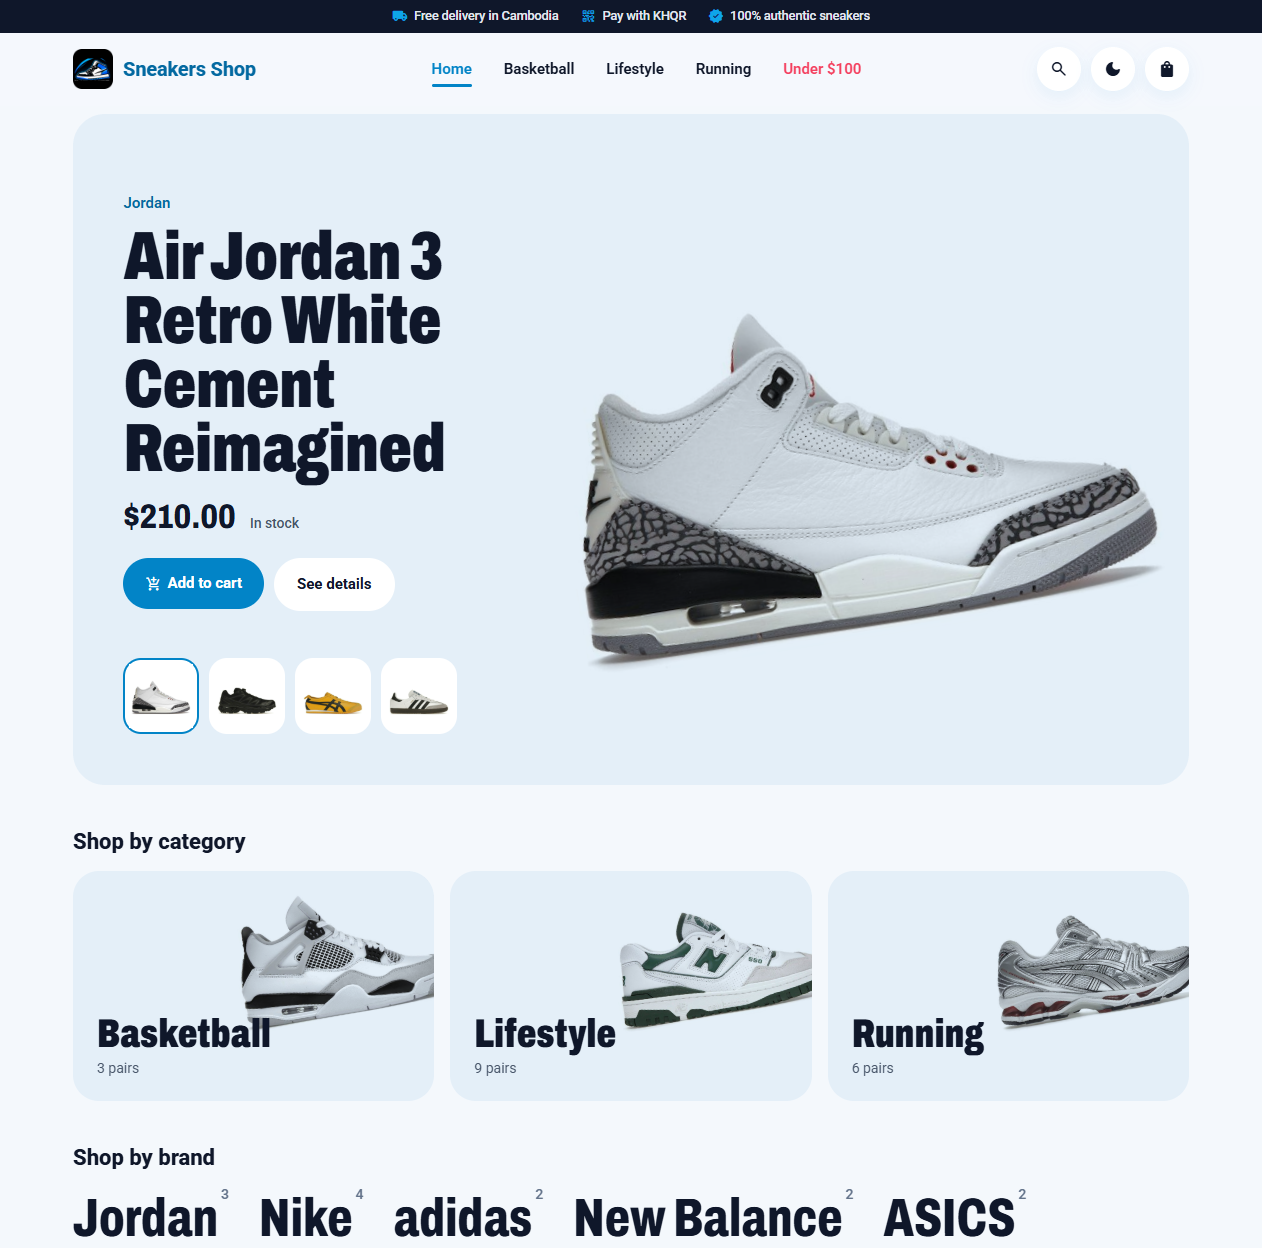
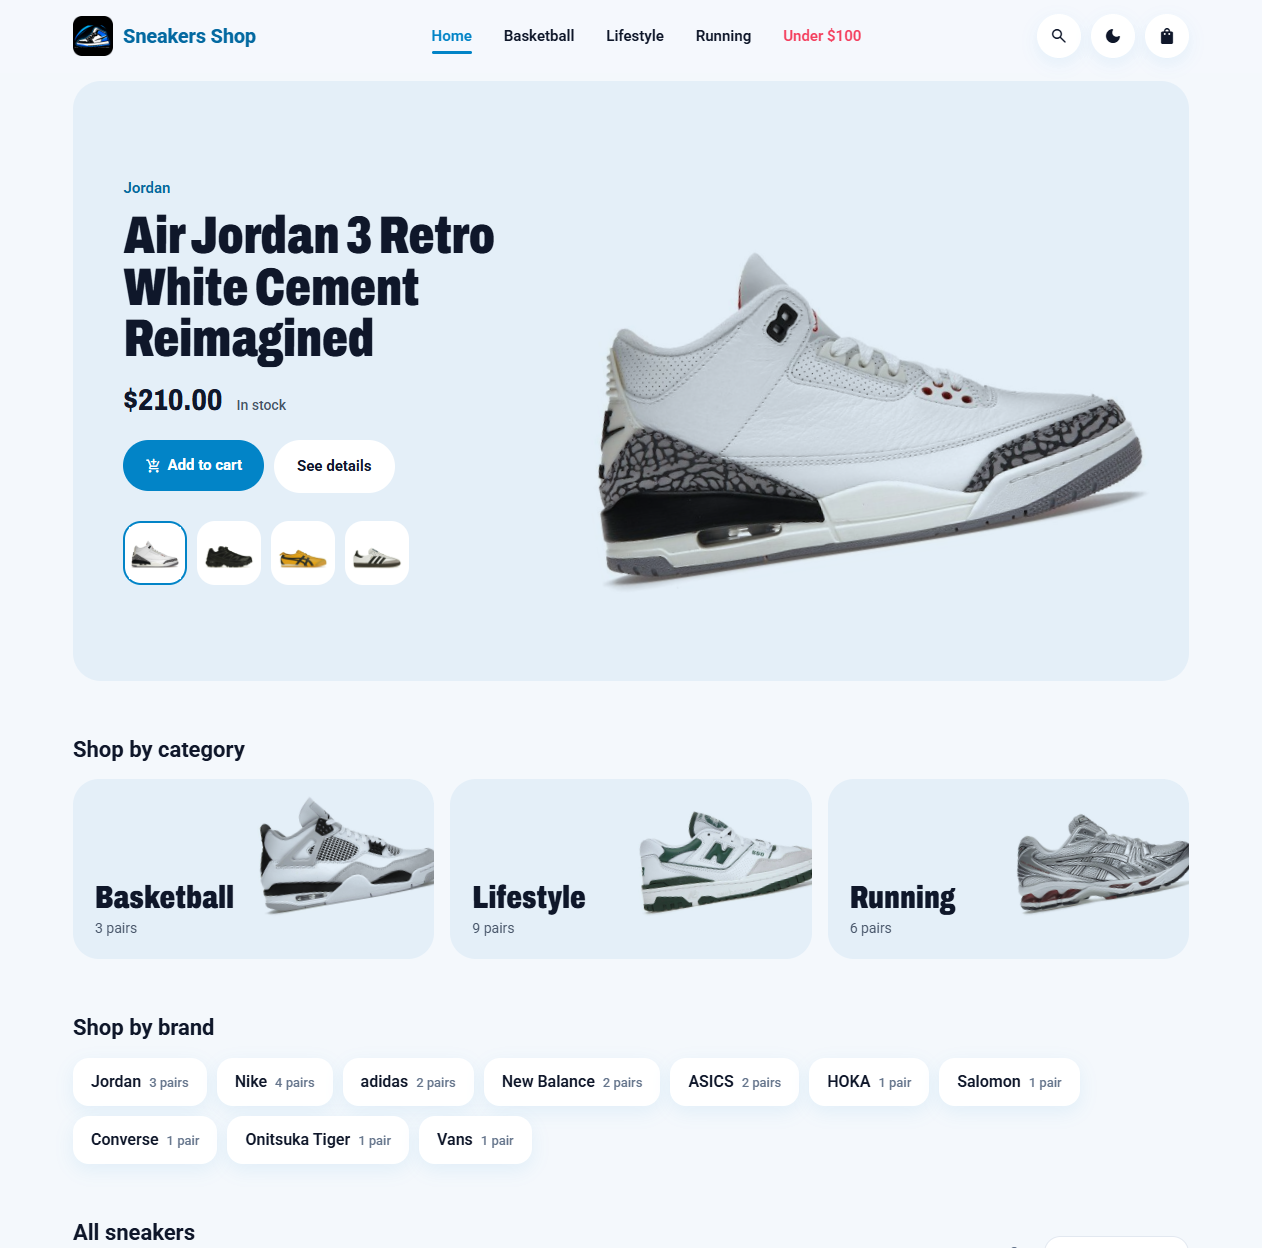
Clean up the home page and remove the black header bar
- Remove the dark announcement strip above the header.
- Simpler product card: photo, name, short description, price, and
  View details / Add to cart buttons (as the brief requires); low
  stock or sold out shown as small text next to the price.
- Calmer home: smaller hero name and shoe, tighter hero spacing,
  shorter category tiles, brands as a row of simple chips (one
  scrolling row on phones), even 56px spacing between sections.
- README: replace arrow symbols with words; screenshots retaken.

diff --git a/shop/static/css/style.css b/shop/static/css/style.css
@@ -148,13 +148,6 @@ html.dark .switch { background: var(--line); }
 .switch.on::after { left: 24px; }
 
 /* =========================================================== STORE */
-/* announcement strip above the header */
-.announce { background: var(--ink); color: #e2e8f0; font-size: 12.5px; font-weight: 500; }
-html.dark .announce { background: #05070a; color: #cbd5e1; }
-.announce-inner { display: flex; justify-content: center; align-items: center; gap: 22px; margin: 0; padding: 7px 0; flex-wrap: wrap; row-gap: 2px; }
-.announce-inner span { display: inline-flex; align-items: center; gap: 6px; white-space: nowrap; }
-.announce-inner .ms { color: var(--brand-light); }
-
 /* header: logo · menu · actions in one row */
 .topbar { position: sticky; top: 0; z-index: 1030; background: color-mix(in srgb, var(--page) 88%, transparent); backdrop-filter: blur(14px);
   border-bottom: 1px solid transparent; transition: box-shadow .25s ease, border-color .25s ease; }
@@ -229,25 +222,25 @@ html.dark .menu-list a.active { color: var(--brand); }
    with multiply so the white disappears and the shoe sits on the shelf. The shelf
    stays light in dark mode too, like a lit display case. */
 :root { --display: "Archivo", "Roboto", system-ui, sans-serif; --shelf: #e4eff8; --shelf-ink: #0f172a; --shelf-muted: #475569; }
-.stage { display: grid; grid-template-columns: minmax(0, 5fr) minmax(0, 7fr); grid-template-rows: 1fr auto; column-gap: clamp(16px, 3vw, 40px);
-  background: var(--shelf); color: var(--shelf-ink); border-radius: 32px; padding: clamp(24px, 4vw, 52px); margin-top: 8px; overflow: hidden; }
-.stage-copy { grid-column: 1; grid-row: 1; align-self: center; padding-top: 8px; }
+.stage { display: grid; grid-template-columns: minmax(0, 5fr) minmax(0, 7fr); grid-template-rows: auto auto; align-content: center; column-gap: clamp(16px, 3vw, 40px);
+  background: var(--shelf); color: var(--shelf-ink); border-radius: 28px; padding: clamp(24px, 3.5vw, 44px) clamp(24px, 4vw, 52px); margin-top: 8px; overflow: hidden; }
+.stage-copy { grid-column: 1; grid-row: 1; align-self: end; }
 .stage-brand { font-size: 15px; font-weight: 600; color: #0369a1; margin: 0 0 10px; }
-.stage-name { font-family: var(--display); font-stretch: 72%; font-weight: 900; font-size: clamp(36px, 5.4vw, 74px); line-height: .94;
+.stage-name { font-family: var(--display); font-stretch: 72%; font-weight: 900; font-size: clamp(32px, 4.2vw, 56px); line-height: .98;
   letter-spacing: -.005em; margin: 0 0 20px; text-wrap: balance; color: var(--shelf-ink); }
 .stage-meta { display: flex; align-items: baseline; gap: 14px; flex-wrap: wrap; margin: 0 0 24px; }
-.stage-price { font-family: var(--display); font-stretch: 80%; font-weight: 800; font-size: 34px; line-height: 1; }
+.stage-price { font-family: var(--display); font-stretch: 80%; font-weight: 800; font-size: 30px; line-height: 1; }
 .stage-stock { font-size: 14px; font-weight: 500; color: var(--shelf-muted); }
 .stage-actions { display: flex; gap: 10px; flex-wrap: wrap; }
 .stage .btn-line { --bs-btn-color: var(--shelf-ink); --bs-btn-bg: #fff; --bs-btn-border-color: transparent; --bs-btn-hover-color: var(--shelf-ink);
   --bs-btn-hover-bg: #f8fafc; --bs-btn-hover-border-color: transparent; }
-.stage-shoe { grid-column: 2; grid-row: 1 / span 2; display: grid; place-items: center; min-width: 0; }
-.stage-shoe img { width: 100%; max-width: 680px; height: auto; mix-blend-mode: multiply; transform: rotate(-9deg) scale(1.12); }
+.stage-shoe { grid-column: 2; grid-row: 1 / span 2; display: grid; place-items: center; min-width: 0; margin: -24px 0; }
+.stage-shoe img { width: 100%; max-width: 560px; height: auto; mix-blend-mode: multiply; transform: rotate(-9deg) scale(1.08); }
 .stage-shoe img.is-in { animation: shoe-in .5s cubic-bezier(.22, 1, .36, 1) both; }
-@keyframes shoe-in { from { opacity: 0; transform: translateX(40px) rotate(-3deg) scale(1.08); } to { opacity: 1; transform: rotate(-9deg) scale(1.12); } }
+@keyframes shoe-in { from { opacity: 0; transform: translateX(40px) rotate(-3deg) scale(1.08); } to { opacity: 1; transform: rotate(-9deg) scale(1.08); } }
 .stage-copy.is-in > * { animation: fade-in .35s ease both; }
-.stage-picks { grid-column: 1; grid-row: 2; display: flex; gap: 10px; margin-top: 28px; }
-.pick { width: 76px; height: 76px; padding: 4px; border-radius: 18px; border: 2px solid transparent; background: #fff; flex: none;
+.stage-picks { grid-column: 1; grid-row: 2; align-self: start; display: flex; gap: 10px; margin-top: 28px; }
+.pick { width: 64px; height: 64px; padding: 4px; border-radius: 18px; border: 2px solid transparent; background: #fff; flex: none;
   transition: border-color .2s ease, transform .2s ease; }
 .pick img { width: 100%; height: 100%; object-fit: contain; }
 .pick:hover { transform: translateY(-2px); }
@@ -263,17 +256,17 @@ html.dark .menu-list a.active { color: var(--brand); }
 }
 
 /* ---------- home: categories and brands ---------- */
-.home-block { margin-top: 44px; }
-.home-h { font-size: 22px; font-weight: 800; margin: 0 0 16px; }
+.home-block { margin-top: 56px; }
+.home-h { font-size: 22px; font-weight: 700; margin: 0 0 16px; }
 .cat-tiles { display: grid; grid-template-columns: repeat(3, minmax(0, 1fr)); gap: 16px; }
-.cat-tile { position: relative; display: flex; flex-direction: column; justify-content: flex-end; min-height: 230px; padding: 22px 24px;
+.cat-tile { position: relative; display: flex; flex-direction: column; justify-content: flex-end; min-height: 180px; padding: 20px 22px;
   border-radius: 26px; background: var(--shelf); color: var(--shelf-ink); text-decoration: none; overflow: hidden; isolation: isolate; }
-.cat-tile img { position: absolute; right: -6%; top: -16%; width: 64%; height: auto; mix-blend-mode: multiply; transform: rotate(-10deg); z-index: -1;
+.cat-tile img { position: absolute; right: -4%; top: -20%; width: 56%; height: auto; mix-blend-mode: multiply; transform: rotate(-10deg); z-index: -1;
   transition: transform .4s cubic-bezier(.22, 1, .36, 1); }
 .cat-tile:hover { color: var(--shelf-ink); }
 .cat-tile:hover img { transform: rotate(-14deg) translate(-6px, -6px); }
 .cat-tile:focus-visible { outline: 3px solid var(--brand); outline-offset: 3px; }
-.cat-name { font-family: var(--display); font-stretch: 72%; font-weight: 900; font-size: 40px; line-height: 1; }
+.cat-name { font-family: var(--display); font-stretch: 72%; font-weight: 900; font-size: 32px; line-height: 1; }
 .cat-count { font-size: 14px; color: var(--shelf-muted); margin-top: 4px; }
 @media (max-width: 767.98px) {
   .cat-tiles { grid-template-columns: 1fr; gap: 10px; }
@@ -282,17 +275,22 @@ html.dark .menu-list a.active { color: var(--brand); }
   .cat-name { font-size: 34px; }
 }
 
-.brand-list { list-style: none; display: flex; flex-wrap: wrap; gap: 2px 30px; margin: 0; padding: 0; }
-.brand-list a { font-family: var(--display); font-stretch: 72%; font-weight: 800; font-size: clamp(30px, 4.6vw, 54px); line-height: 1.12;
-  color: var(--ink); text-decoration: none; transition: color .2s ease; }
+.brand-list { list-style: none; display: flex; flex-wrap: wrap; gap: 10px; margin: 0; padding: 0; }
+.brand-list a { display: inline-flex; align-items: baseline; gap: 8px; padding: 12px 18px; border-radius: 16px; background: var(--card);
+  box-shadow: var(--shadow); color: var(--ink); font-size: 16px; font-weight: 600; text-decoration: none; transition: color .2s ease; }
 .brand-list a:hover { color: var(--brand); }
-.brand-list a:focus-visible { outline: 2px solid var(--brand); outline-offset: 2px; border-radius: 6px; }
-.brand-list sup { font-family: "Roboto", system-ui, sans-serif; font-size: 14px; font-weight: 600; color: var(--muted); margin-left: 3px; vertical-align: top; position: relative; top: .5em; }
+.brand-list a:focus-visible { outline: 2px solid var(--brand); outline-offset: 2px; }
+.brand-list .n { font-size: 13px; font-weight: 500; color: var(--muted); }
+@media (max-width: 767.98px) {
+  .brand-list { flex-wrap: nowrap; overflow-x: auto; scrollbar-width: none; margin: 0 -12px; padding: 4px 12px 14px; }
+  .brand-list::-webkit-scrollbar { display: none; }
+  .brand-list li { flex: none; }
+}
 
 /* ---------- catalogue: heading, sort, filter chips ---------- */
-.catalog { margin-top: 48px; scroll-margin-top: 90px; }
+.catalog { margin-top: 56px; scroll-margin-top: 90px; }
 .catalog-head { display: flex; align-items: flex-end; justify-content: space-between; gap: 12px; flex-wrap: wrap; margin-bottom: 14px; }
-.catalog-head h2 { font-size: 28px; font-weight: 800; margin: 0; }
+.catalog-head h2 { font-size: 22px; font-weight: 700; margin: 0; }
 .catalog-count { margin: 2px 0 0; color: var(--muted); font-size: 14px; }
 .catalog-count a { color: var(--brand); font-weight: 600; text-decoration: none; }
 .sort-form { display: flex; align-items: center; gap: 8px; }
@@ -309,35 +307,32 @@ html.dark .menu-list a.active { color: var(--brand); }
 .fchip.on .n { color: inherit; opacity: .65; }
 .fchip:focus-visible { outline: 2px solid var(--brand); outline-offset: 2px; }
 
-/* product card (MA: Product Card) */
-.pcard { background: var(--card); border-radius: var(--radius-lg); box-shadow: var(--shadow); padding: 8px 8px 12px; height: 100%;
-  display: flex; flex-direction: column; position: relative; transition: transform .25s cubic-bezier(.22, 1, .36, 1), box-shadow .25s ease; }
-.pcard:hover { transform: translateY(-3px); box-shadow: var(--shadow-lift); }
-.pcard-photo { display: block; aspect-ratio: 1; border-radius: 16px; overflow: hidden; position: relative; background: var(--brand-tint); }
-.pcard-photo img { width: 100%; height: 100%; object-fit: cover; transition: transform .5s cubic-bezier(.22, 1, .36, 1); }
-.pcard:hover .pcard-photo img { transform: scale(1.05); }
-.ptag { position: absolute; padding: 3px 8px; border-radius: 10px; font-size: 10.5px; font-weight: 600; max-width: calc(100% - 16px);
-  white-space: nowrap; overflow: hidden; text-overflow: ellipsis; }
-.ptag.series { left: 8px; bottom: 8px; background: rgba(255, 255, 255, .88); color: #0369a1; }
-.soldout { position: absolute; inset: 0; background: rgba(15, 23, 42, .45); display: grid; place-items: center; }
-.soldout span { background: #fff; color: #0f172a; font-size: 11px; font-weight: 700; padding: 4px 9px; border-radius: 10px; }
-.pcard-body { padding: 8px 4px 0; display: flex; flex-direction: column; flex: 1; }
-.pcard-meta { font-size: 11px; color: var(--muted); }
-.pcard-name { font-size: 13.5px; font-weight: 600; line-height: 1.38; margin: 4px 0 6px; min-height: calc(1.38em * 2);
+/* product card: photo, name, short description, price, View details + Add to cart */
+.pcard { height: 100%; display: flex; flex-direction: column; }
+.pcard-photo { display: block; aspect-ratio: 1; border-radius: 20px; overflow: hidden; background: #fff; box-shadow: var(--shadow); }
+.pcard-photo img { width: 100%; height: 100%; object-fit: cover; transition: transform .45s cubic-bezier(.22, 1, .36, 1); }
+.pcard:hover .pcard-photo img { transform: scale(1.04); }
+.pcard.is-soldout .pcard-photo img { opacity: .45; }
+.pcard-body { padding: 14px 2px 0; display: flex; flex-direction: column; flex: 1; }
+.pcard-name { font-size: 15px; font-weight: 600; line-height: 1.35; margin: 0 0 4px; min-height: calc(1.35em * 2);
   display: -webkit-box; -webkit-line-clamp: 2; -webkit-box-orient: vertical; overflow: hidden; }
 .pcard-name a { color: var(--ink); text-decoration: none; }
-.pcard-name a::after { content: ""; position: absolute; inset: 0; border-radius: var(--radius-lg); }
-.pcard-foot { display: flex; align-items: center; gap: 8px; margin-top: auto; position: relative; z-index: 1; }
-.price { font-size: 16px; font-weight: 700; color: var(--brand-dark); }
-.pcard-foot .price { flex: 1; }
-.details-link { font-size: 12px; font-weight: 700; color: var(--brand); text-decoration: none; padding: 6px 10px; border-radius: 999px; background: var(--brand-tint); white-space: nowrap; }
-.details-link:hover { color: var(--brand-dark); }
-.add-round { width: 34px; height: 34px; border-radius: 50%; border: 0; background: #0369a1; color: #fff; display: grid; place-items: center; flex: none;
-  transition: background-color .2s ease, transform .15s ease; }
-html.dark .add-round { background: var(--brand); color: var(--brand-on); }
-.add-round:hover { transform: scale(1.08); }
-.add-round:disabled { background: var(--soft); color: var(--muted); transform: none; }
-.add-round.is-busy { background: var(--success); color: #fff; }
+.pcard-name a:hover { color: var(--brand); }
+.pcard-desc { font-size: 13px; line-height: 1.45; color: var(--muted); margin: 0 0 12px;
+  display: -webkit-box; -webkit-line-clamp: 2; -webkit-box-orient: vertical; overflow: hidden; }
+.pcard-price { display: flex; align-items: baseline; gap: 10px; margin: auto 0 12px; }
+.pcard .price { font-size: 18px; font-weight: 700; color: var(--ink); }
+.pcard-flag { font-size: 12.5px; font-weight: 600; color: var(--muted); }
+.pcard-flag.low { color: var(--coral); }
+.pcard-actions { display: grid; grid-template-columns: 1fr 1fr; gap: 8px; }
+.pcard-actions .btn { width: 100%; display: inline-flex; align-items: center; justify-content: center; gap: 6px; white-space: nowrap; padding-left: 8px; padding-right: 8px; }
+.add-btn.is-busy { --bs-btn-bg: var(--success); --bs-btn-border-color: var(--success); --bs-btn-disabled-bg: var(--success); }
+@media (max-width: 575.98px) {
+  .pcard-actions { grid-template-columns: 1fr auto; }
+  .pcard-actions .btn { min-height: 36px; }
+  .add-btn { width: 44px !important; padding: 0 !important; }
+  .add-btn span:not(.ms) { position: absolute; width: 1px; height: 1px; overflow: hidden; clip: rect(0 0 0 0); white-space: nowrap; }
+}
 
 /* product detail */
 .crumbs { display: flex; align-items: center; gap: 6px; font-size: 13px; color: var(--muted); margin-bottom: 16px; flex-wrap: wrap; }

diff --git a/shop/templates/shop/_product_card.html b/shop/templates/shop/_product_card.html
@@ -1,22 +1,25 @@
+{% set detail_url = url_for('public.product_detail', product_id=p.id) %}
 <div class="col" data-reveal data-reveal-index="{{ reveal_index or 0 }}">
-  <article class="pcard">
-    <div class="pcard-photo">
-      <img src="{{ p.image_src() }}" alt="" loading="lazy">
-      {% if not p.in_stock %}<div class="soldout"><span>Sold out</span></div>{% endif %}
-      {% if p.category %}<span class="ptag series">{{ p.category }}</span>{% endif %}
-    </div>
+  <article class="pcard {{ 'is-soldout' if not p.in_stock }}">
+    <a class="pcard-photo" href="{{ detail_url }}" tabindex="-1" aria-hidden="true">
+      <img src="{{ p.image_src() }}" alt="" loading="lazy" width="864" height="864">
+    </a>
     <div class="pcard-body">
-      <div class="pcard-meta">{% if not p.in_stock %}Sold out{% elif p.stock <= 3 %}<span style="color: var(--coral); font-weight: 700">Only {{ p.stock }} left</span>{% else %}In stock{% endif %}</div>
-      <h3 class="pcard-name"><a href="{{ url_for('public.product_detail', product_id=p.id) }}">{{ p.name }}</a></h3>
-      <div class="pcard-foot">
+      <h3 class="pcard-name"><a href="{{ detail_url }}">{{ p.name }}</a></h3>
+      <p class="pcard-desc">{{ p.short_description }}</p>
+      <div class="pcard-price">
         <span class="price">{{ p.price|money }}</span>
-        <a href="{{ url_for('public.product_detail', product_id=p.id) }}" class="details-link" aria-label="View details of {{ p.name }}">View Details</a>
+        {% if not p.in_stock %}<span class="pcard-flag">Sold out</span>
+        {% elif p.stock <= 3 %}<span class="pcard-flag low">Only {{ p.stock }} left</span>{% endif %}
+      </div>
+      <div class="pcard-actions">
+        <a href="{{ detail_url }}" class="btn btn-line btn-sm" aria-label="View details of {{ p.name }}">View details</a>
         <form method="post" action="{{ url_for('public.cart_add') }}">
           <input type="hidden" name="csrf_token" value="{{ csrf_token() }}">
           <input type="hidden" name="product_id" value="{{ p.id }}">
           <input type="hidden" name="quantity" value="1">
           <input type="hidden" name="next" value="{{ request.full_path }}">
-          <button class="add-round" {% if not p.in_stock %}disabled{% endif %} aria-label="Add {{ p.name }} to cart" title="{{ 'Add to Cart' if p.in_stock else 'Sold out' }}">{{ icon("add") }}</button>
+          <button class="btn btn-brand btn-sm add-btn" {% if not p.in_stock %}disabled{% endif %} aria-label="Add {{ p.name }} to cart">{{ icon("add_shopping_cart", "ms-sm") }}<span>Add to cart</span></button>
         </form>
       </div>
     </div>

diff --git a/shop/templates/base.html b/shop/templates/base.html
@@ -21,15 +21,6 @@
   ("Running", "directions_run", url_for('public.index', category='Running'), cur_cat == 'Running'),
   ("Under $100", "sell", url_for('public.index', max=100), not cur_cat and cur_max == '100'),
 ] %}
-<div class="announce">
-  <div class="container">
-    <p class="announce-inner">
-      <span>{{ icon("local_shipping", "ms-sm") }} Free delivery in Cambodia</span>
-      <span>{{ icon("qr_code_2", "ms-sm") }} Pay with KHQR</span>
-      <span class="d-none d-md-inline-flex">{{ icon("verified", "ms-sm") }} 100% authentic sneakers</span>
-    </p>
-  </div>
-</div>
 <header class="topbar" data-elevate>
   <div class="container">
     <div class="navrow">

diff --git a/shop/templates/shop/index.html b/shop/templates/shop/index.html
@@ -62,7 +62,7 @@
   <h2 class="home-h" id="brands-title">Shop by brand</h2>
   <ul class="brand-list">
     {% for b, n in brands %}
-    <li><a href="{{ shop_url(brand=b) }}">{{ b }}<sup aria-label="{{ n }} pair{{ '' if n == 1 else 's' }}">{{ n }}</sup></a></li>
+    <li><a href="{{ shop_url(brand=b) }}">{{ b }} <span class="n">{{ n }} pair{{ '' if n == 1 else 's' }}</span></a></li>
     {% endfor %}
   </ul>
 </section>

diff --git a/shop/static/js/motion.js b/shop/static/js/motion.js
@@ -116,7 +116,7 @@
     if (!btn) return;
     btn.classList.add('is-busy');
     const ico = btn.querySelector('.ms');
-    if (ico && btn.classList.contains('add-round')) ico.textContent = 'check';
+    if (ico && btn.classList.contains('add-btn')) ico.textContent = 'check';
   }));
 
   /* ---------- copy product link ---------- */

diff --git a/README.md b/README.md
@@ -77,7 +77,7 @@ ADV_PP_Final/
 └── docs/screenshots/            # images used in this README
 ```
 
-**How a purchase flows through the code:** `views/public.py` lists products from `models.py` → the cart is kept in the session by `cart.py` → checkout creates an `Order` → `payments.py` makes the KHQR and checks Bakong every few seconds → when paid, stock is reduced and the confirmation page is shown. The admin side (`views/admin.py`) reads the same models.
+**How a purchase flows through the code:** `views/public.py` lists products from `models.py`, then the cart is kept in the session by `cart.py`, checkout creates an `Order`, `payments.py` makes the KHQR and checks Bakong every few seconds, and when paid, stock is reduced and the confirmation page is shown. The admin side (`views/admin.py`) reads the same models.
 
 ## Run locally
 ```bash
@@ -133,7 +133,7 @@ Photos from `image_url` are downloaded, resized and stored in the database. If a
 
 ### Option A: Render (free, PostgreSQL included)
 1. Push this repo to GitHub.
-2. On https://render.com choose **New + → Blueprint** and select the repo (it reads `render.yaml`).
+2. On https://render.com choose **New +**, then **Blueprint**, and select the repo (it reads `render.yaml`).
 3. Fill in the prompted secrets: `ADMIN_PASSWORD`, and optionally `BAKONG_ACCOUNT_ID`, `BAKONG_TOKEN`, `BAKONG_PROXY_KEY`.
 4. Your live URL is `https://<service-name>.onrender.com` and the admin is at `/admin`.
 
@@ -141,13 +141,13 @@ Photos from `image_url` are downloaded, resized and stored in the database. If a
 
 ### Option B: PythonAnywhere (free, SQLite persists)
 1. In a Bash console: `git clone <repo>`, then `cd anime-world-shop`, then `pip install --user -r requirements.txt`.
-2. Web tab → *Add a new web app* → Manual config (Python 3.12) → edit the WSGI file:
+2. In the Web tab, choose *Add a new web app*, then Manual config (Python 3.12), then edit the WSGI file:
    ```python
    import sys; sys.path.insert(0, "/home/<you>/anime-world-shop")
    from wsgi import app as application
    ```
 3. Create `/home/<you>/anime-world-shop/.env` (copy `.env.example`), then reload.
-4. Static files mapping: URL `/static/` → `/home/<you>/anime-world-shop/shop/static`.
+4. Static files mapping: URL `/static/` to directory `/home/<you>/anime-world-shop/shop/static`.
 
 ## Security notes
 - CSRF token on every form; admin password compared in constant time; session cookie is HttpOnly + SameSite.
